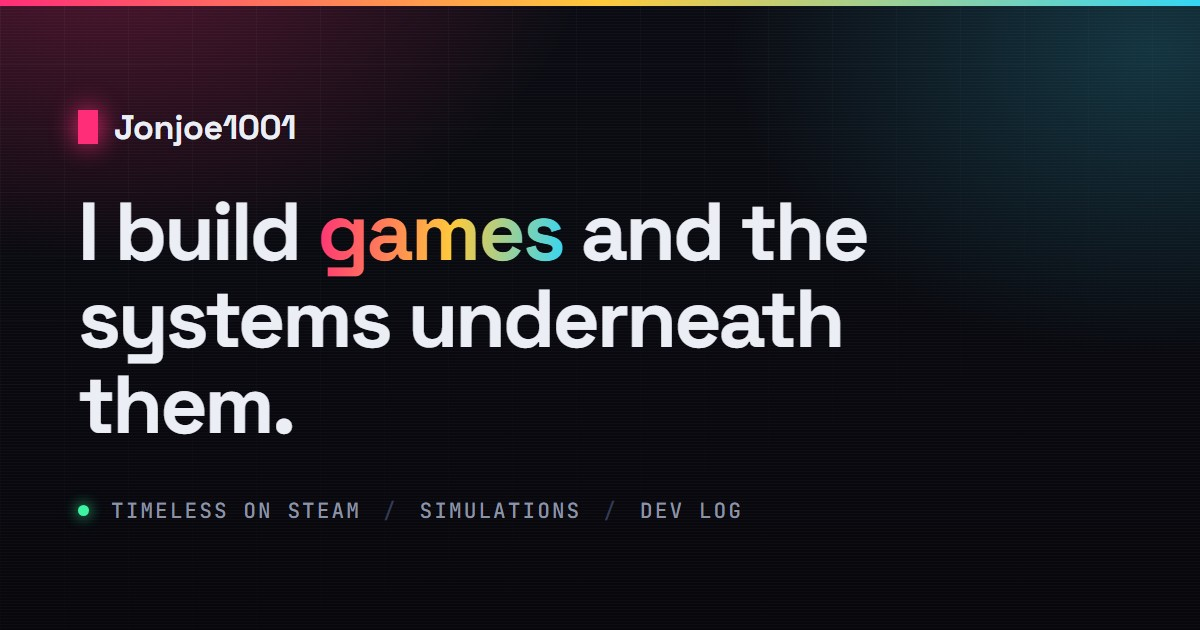
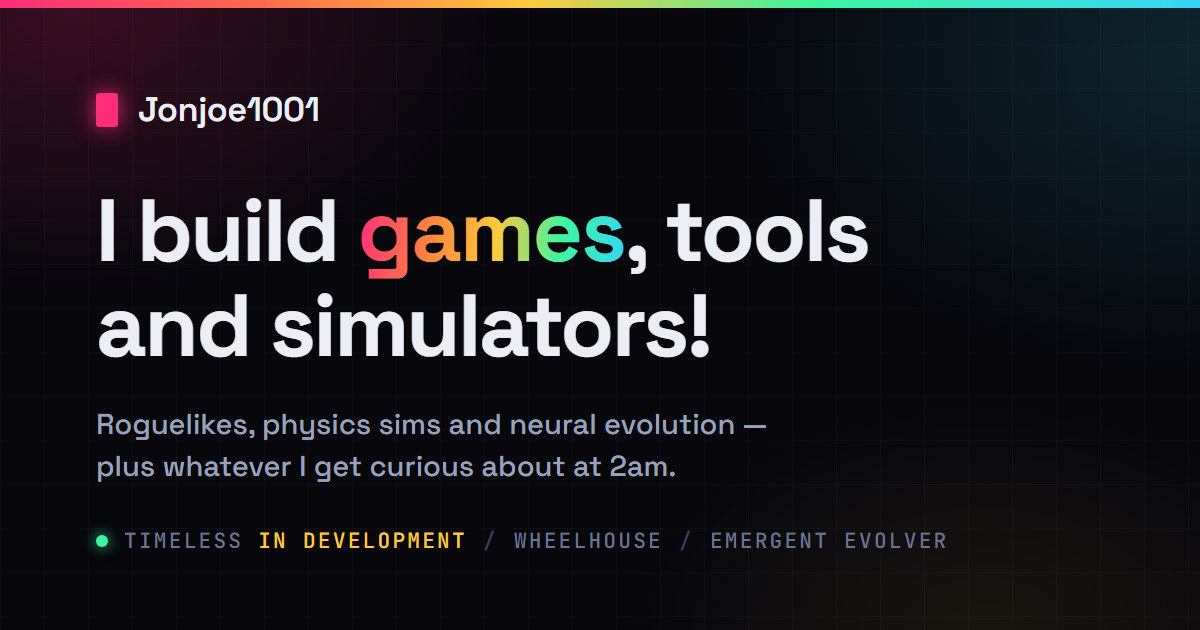
Redraw the social preview card
The old card advertised "TIMELESS ON STEAM" and a headline the site no
longer uses. Timeless is not released, so the card was promising a store
page that does not exist.

- Headline now matches the live hero: "I build games, tools and
  simulators!", with the accent sweep on "games" as on the site.
- Footer strip reads Timeless IN DEVELOPMENT / Wheelhouse / Emergent
  Evolver, so all three current projects are named and the status is
  honest.
- Built from the site's own colour tokens and fonts, so the card cannot
  drift away from the design.

Points at a new filename, og-v2.jpg, because scrapers cache a card
against its URL for days - replacing the picture in place would have
left the old one showing. og.jpg keeps the same new picture so anything
already cached against it refreshes rather than breaking.

Source kept at tools/og-card.html with rebuild instructions.

diff --git a/tools/og-card.html b/tools/og-card.html
@@ -1,0 +1,195 @@
+<!DOCTYPE html>
+<!--
+  Source for the social preview card (assets/img/og-v2.jpg) - the picture that
+  shows when the site is pasted into Discord, Twitter, Slack or iMessage.
+
+  This is not part of the site. Nothing links to it. It exists so the card can
+  be rebuilt instead of redrawn by hand.
+
+  TO REBUILD, after editing the text below:
+
+    1. Screenshot it at exactly 1200x630 (the size every scraper expects):
+
+       & "C:\Program Files (x86)\Microsoft\Edge\Application\msedge.exe" `
+         --headless=new --disable-gpu --hide-scrollbars `
+         --force-device-scale-factor=1 --window-size=1200,630 `
+         --virtual-time-budget=8000 --user-data-dir="$env:TEMP\ogshot" `
+         --screenshot="$env:TEMP\og.png" `
+         "file:///C:/path/to/this/repo/tools/og-card.html"
+
+       If it silently writes no file, delete the --user-data-dir folder first;
+       a stale profile lock makes headless Edge exit without a word.
+
+    2. Convert to JPG and overwrite BOTH names in assets/img/:
+
+       python -c "from PIL import Image; im=Image.open(r'%TEMP%\og.png').convert('RGB'); im.save(r'assets\img\og-v2.jpg','JPEG',quality=88,subsampling=0,optimize=True,progressive=True)"
+
+       og-v2.jpg is the one the pages point at. og.jpg is the old filename,
+       kept holding the same picture so links cached against it stay current.
+
+  WHY JPG when the rest of the site is WebP: link scrapers handle WebP badly.
+  This one file stays JPG on purpose.
+
+  WHY the version number in the filename: Discord and Twitter cache a card
+  against its URL, sometimes for days. Changing the picture at the same URL
+  often changes nothing. Bumping to og-v3.jpg forces every scraper to refetch.
+-->
+<html lang="en">
+<head>
+<meta charset="utf-8">
+<link rel="preconnect" href="https://fonts.googleapis.com">
+<link rel="preconnect" href="https://fonts.gstatic.com" crossorigin>
+<link href="https://fonts.googleapis.com/css2?family=Space+Grotesk:wght@500;600;700&family=JetBrains+Mono:wght@500&display=swap" rel="stylesheet">
+<style>
+  /* Same tokens as the live site, so the card cannot drift from it. */
+  :root {
+    --bg:        #07070C;
+    --text:      #ECEEF6;
+    --text-faint:#6B7392;
+    --hot:       #FF2D78;
+    --cyan:      #35D6F5;
+    --amber:     #FFC93C;
+    --green:     #3DF5A0;
+  }
+
+  * { box-sizing: border-box; margin: 0; padding: 0; }
+
+  html, body { width: 1200px; height: 630px; }
+
+  body {
+    background: var(--bg);
+    color: var(--text);
+    font-family: "Space Grotesk", "Segoe UI", system-ui, sans-serif;
+    position: relative;
+    overflow: hidden;
+  }
+
+  /* The site's backdrop: faint grid plus two corner glows. */
+  .backdrop {
+    position: absolute;
+    inset: 0;
+    background-image:
+      linear-gradient(rgba(255,255,255,.022) 1px, transparent 1px),
+      linear-gradient(90deg, rgba(255,255,255,.022) 1px, transparent 1px);
+    background-size: 44px 44px;
+  }
+  .glow {
+    position: absolute;
+    inset: 0;
+    background:
+      radial-gradient(620px 420px at 6% 0%,   rgba(255, 45,120,.20), transparent 70%),
+      radial-gradient(680px 460px at 100% 8%, rgba( 53,214,245,.14), transparent 70%),
+      radial-gradient(520px 340px at 82% 100%,rgba(255,201, 60,.07), transparent 70%);
+  }
+
+  /* Top rule, the same sweep the site uses above feature cards. */
+  .bar {
+    position: absolute;
+    top: 0; left: 0; right: 0;
+    height: 8px;
+    background: linear-gradient(90deg,
+      var(--hot) 0%, #FF6B4A 22%, var(--amber) 44%, var(--green) 68%, var(--cyan) 100%);
+  }
+
+  .inner {
+    position: relative;
+    height: 100%;
+    padding: 88px 96px 76px;
+    display: flex;
+    flex-direction: column;
+  }
+
+  /* --- brand ------------------------------------------------ */
+  .brand {
+    display: flex;
+    align-items: center;
+    gap: 20px;
+    font-size: 34px;
+    font-weight: 600;
+    letter-spacing: -.01em;
+  }
+  .mark {
+    width: 22px;
+    height: 34px;
+    border-radius: 3px;
+    background: var(--hot);
+    box-shadow: 0 0 22px rgba(255,45,120,.85);
+  }
+
+  /* --- headline --------------------------------------------- */
+  h1 {
+    margin-top: 52px;
+    font-size: 88px;
+    font-weight: 700;
+    line-height: 1.08;
+    letter-spacing: -.028em;
+    max-width: 15ch;
+  }
+  /* "games" picks up the full accent sweep, as on the site's hero. */
+  .accent {
+    background: linear-gradient(95deg,
+      var(--hot) 0%, #FF8A3D 30%, var(--amber) 52%, var(--green) 76%, var(--cyan) 100%);
+    -webkit-background-clip: text;
+    background-clip: text;
+    color: transparent;
+  }
+
+  /* --- lead ------------------------------------------------- */
+  .lead {
+    margin-top: 30px;
+    font-size: 29px;
+    line-height: 1.45;
+    font-weight: 500;
+    color: #9AA1BC;
+    max-width: 37ch;
+  }
+
+  /* --- footer strip ----------------------------------------- */
+  .strip {
+    margin-top: auto;
+    display: flex;
+    align-items: center;
+    gap: 16px;
+    font-family: "JetBrains Mono", Consolas, monospace;
+    font-size: 21px;
+    font-weight: 500;
+    letter-spacing: .11em;
+    color: var(--text-faint);
+    text-transform: uppercase;
+    white-space: nowrap;
+  }
+  .dot {
+    width: 12px;
+    height: 12px;
+    border-radius: 50%;
+    background: var(--green);
+    box-shadow: 0 0 14px rgba(61,245,160,.9);
+    flex: none;
+  }
+  .sep { color: #3A4060; }
+  .live { color: var(--amber); }
+</style>
+</head>
+<body>
+  <div class="backdrop"></div>
+  <div class="glow"></div>
+  <div class="bar"></div>
+
+  <div class="inner">
+    <div class="brand"><span class="mark"></span>Jonjoe1001</div>
+
+    <h1>I build <span class="accent">games</span>, tools and simulators!</h1>
+
+    <p class="lead">Roguelikes, physics sims and neural evolution &mdash; plus whatever I get curious about at 2am.</p>
+
+    <div class="strip">
+      <span class="dot"></span>
+      <span>Timeless <span class="live">in development</span></span>
+      <span class="sep">/</span>
+      <span>Wheelhouse</span>
+      <span class="sep">/</span>
+      <span>Emergent Evolver</span>
+    </div>
+  </div>
+</body>
+</html>

diff --git a/posts/2026-09-09-hello-world.html b/posts/2026-09-09-hello-world.html
@@ -12,11 +12,11 @@
   <meta property="og:type" content="article">
   <meta property="og:url" content="https://jonathancomergit-ai.github.io/posts/2026-09-09-hello-world.html">
   <meta property="og:site_name" content="Jonjoe1001">
-  <meta property="og:image" content="https://jonathancomergit-ai.github.io/assets/img/og.jpg">
+  <meta property="og:image" content="https://jonathancomergit-ai.github.io/assets/img/og-v2.jpg">
   <meta property="og:image:width" content="1200">
   <meta property="og:image:height" content="630">
   <meta name="twitter:card" content="summary_large_image">
-  <meta name="twitter:image" content="https://jonathancomergit-ai.github.io/assets/img/og.jpg">
+  <meta name="twitter:image" content="https://jonathancomergit-ai.github.io/assets/img/og-v2.jpg">
 
 
   <link rel="icon" href="../assets/img/favicon.svg" type="image/svg+xml">

diff --git a/projects/emergent-evolver.html b/projects/emergent-evolver.html
@@ -12,11 +12,11 @@
   <meta property="og:type" content="website">
   <meta property="og:url" content="https://jonathancomergit-ai.github.io/projects/emergent-evolver.html">
   <meta property="og:site_name" content="Jonjoe1001">
-  <meta property="og:image" content="https://jonathancomergit-ai.github.io/assets/img/og.jpg">
+  <meta property="og:image" content="https://jonathancomergit-ai.github.io/assets/img/og-v2.jpg">
   <meta property="og:image:width" content="1200">
   <meta property="og:image:height" content="630">
   <meta name="twitter:card" content="summary_large_image">
-  <meta name="twitter:image" content="https://jonathancomergit-ai.github.io/assets/img/og.jpg">
+  <meta name="twitter:image" content="https://jonathancomergit-ai.github.io/assets/img/og-v2.jpg">
 
   <link rel="icon" href="../assets/img/favicon.svg" type="image/svg+xml">
 

diff --git a/projects/wheelhouse.html b/projects/wheelhouse.html
@@ -12,11 +12,11 @@
   <meta property="og:type" content="website">
   <meta property="og:url" content="https://jonathancomergit-ai.github.io/projects/wheelhouse.html">
   <meta property="og:site_name" content="Jonjoe1001">
-  <meta property="og:image" content="https://jonathancomergit-ai.github.io/assets/img/og.jpg">
+  <meta property="og:image" content="https://jonathancomergit-ai.github.io/assets/img/og-v2.jpg">
   <meta property="og:image:width" content="1200">
   <meta property="og:image:height" content="630">
   <meta name="twitter:card" content="summary_large_image">
-  <meta name="twitter:image" content="https://jonathancomergit-ai.github.io/assets/img/og.jpg">
+  <meta name="twitter:image" content="https://jonathancomergit-ai.github.io/assets/img/og-v2.jpg">
 
   <link rel="icon" href="../assets/img/favicon.svg" type="image/svg+xml">
 

diff --git a/projects/timeless.html b/projects/timeless.html
@@ -12,11 +12,11 @@
   <meta property="og:type" content="website">
   <meta property="og:url" content="https://jonathancomergit-ai.github.io/projects/timeless.html">
   <meta property="og:site_name" content="Jonjoe1001">
-  <meta property="og:image" content="https://jonathancomergit-ai.github.io/assets/img/og.jpg">
+  <meta property="og:image" content="https://jonathancomergit-ai.github.io/assets/img/og-v2.jpg">
   <meta property="og:image:width" content="1200">
   <meta property="og:image:height" content="630">
   <meta name="twitter:card" content="summary_large_image">
-  <meta name="twitter:image" content="https://jonathancomergit-ai.github.io/assets/img/og.jpg">
+  <meta name="twitter:image" content="https://jonathancomergit-ai.github.io/assets/img/og-v2.jpg">
 
   <link rel="icon" href="../assets/img/favicon.svg" type="image/svg+xml">
 

diff --git a/posts/_TEMPLATE.html b/posts/_TEMPLATE.html
@@ -29,11 +29,11 @@
   <meta property="og:type" content="article">
   <meta property="og:url" content="https://jonathancomergit-ai.github.io/posts/_TEMPLATE.html">
   <meta property="og:site_name" content="Jonjoe1001">
-  <meta property="og:image" content="https://jonathancomergit-ai.github.io/assets/img/og.jpg">
+  <meta property="og:image" content="https://jonathancomergit-ai.github.io/assets/img/og-v2.jpg">
   <meta property="og:image:width" content="1200">
   <meta property="og:image:height" content="630">
   <meta name="twitter:card" content="summary_large_image">
-  <meta name="twitter:image" content="https://jonathancomergit-ai.github.io/assets/img/og.jpg">
+  <meta name="twitter:image" content="https://jonathancomergit-ai.github.io/assets/img/og-v2.jpg">
 
 
   <link rel="icon" href="../assets/img/favicon.svg" type="image/svg+xml">

diff --git a/projects.html b/projects.html
@@ -11,11 +11,11 @@
   <meta property="og:type" content="website">
   <meta property="og:url" content="https://jonathancomergit-ai.github.io/projects.html">
   <meta property="og:site_name" content="Jonjoe1001">
-  <meta property="og:image" content="https://jonathancomergit-ai.github.io/assets/img/og.jpg">
+  <meta property="og:image" content="https://jonathancomergit-ai.github.io/assets/img/og-v2.jpg">
   <meta property="og:image:width" content="1200">
   <meta property="og:image:height" content="630">
   <meta name="twitter:card" content="summary_large_image">
-  <meta name="twitter:image" content="https://jonathancomergit-ai.github.io/assets/img/og.jpg">
+  <meta name="twitter:image" content="https://jonathancomergit-ai.github.io/assets/img/og-v2.jpg">
 
 
   <link rel="icon" href="assets/img/favicon.svg" type="image/svg+xml">

diff --git a/contact.html b/contact.html
@@ -11,11 +11,11 @@
   <meta property="og:type" content="website">
   <meta property="og:url" content="https://jonathancomergit-ai.github.io/contact.html">
   <meta property="og:site_name" content="Jonjoe1001">
-  <meta property="og:image" content="https://jonathancomergit-ai.github.io/assets/img/og.jpg">
+  <meta property="og:image" content="https://jonathancomergit-ai.github.io/assets/img/og-v2.jpg">
   <meta property="og:image:width" content="1200">
   <meta property="og:image:height" content="630">
   <meta name="twitter:card" content="summary_large_image">
-  <meta name="twitter:image" content="https://jonathancomergit-ai.github.io/assets/img/og.jpg">
+  <meta name="twitter:image" content="https://jonathancomergit-ai.github.io/assets/img/og-v2.jpg">
 
 
   <link rel="icon" href="assets/img/favicon.svg" type="image/svg+xml">

diff --git a/about.html b/about.html
@@ -11,11 +11,11 @@
   <meta property="og:type" content="website">
   <meta property="og:url" content="https://jonathancomergit-ai.github.io/about.html">
   <meta property="og:site_name" content="Jonjoe1001">
-  <meta property="og:image" content="https://jonathancomergit-ai.github.io/assets/img/og.jpg">
+  <meta property="og:image" content="https://jonathancomergit-ai.github.io/assets/img/og-v2.jpg">
   <meta property="og:image:width" content="1200">
   <meta property="og:image:height" content="630">
   <meta name="twitter:card" content="summary_large_image">
-  <meta name="twitter:image" content="https://jonathancomergit-ai.github.io/assets/img/og.jpg">
+  <meta name="twitter:image" content="https://jonathancomergit-ai.github.io/assets/img/og-v2.jpg">
 
 
   <link rel="icon" href="assets/img/favicon.svg" type="image/svg+xml">

diff --git a/blog.html b/blog.html
@@ -11,11 +11,11 @@
   <meta property="og:type" content="website">
   <meta property="og:url" content="https://jonathancomergit-ai.github.io/blog.html">
   <meta property="og:site_name" content="Jonjoe1001">
-  <meta property="og:image" content="https://jonathancomergit-ai.github.io/assets/img/og.jpg">
+  <meta property="og:image" content="https://jonathancomergit-ai.github.io/assets/img/og-v2.jpg">
   <meta property="og:image:width" content="1200">
   <meta property="og:image:height" content="630">
   <meta name="twitter:card" content="summary_large_image">
-  <meta name="twitter:image" content="https://jonathancomergit-ai.github.io/assets/img/og.jpg">
+  <meta name="twitter:image" content="https://jonathancomergit-ai.github.io/assets/img/og-v2.jpg">
 
 
   <link rel="icon" href="assets/img/favicon.svg" type="image/svg+xml">

diff --git a/index.html b/index.html
@@ -13,11 +13,11 @@
   <meta property="og:type" content="website">
   <meta property="og:url" content="https://jonathancomergit-ai.github.io/">
   <meta property="og:site_name" content="Jonjoe1001">
-  <meta property="og:image" content="https://jonathancomergit-ai.github.io/assets/img/og.jpg">
+  <meta property="og:image" content="https://jonathancomergit-ai.github.io/assets/img/og-v2.jpg">
   <meta property="og:image:width" content="1200">
   <meta property="og:image:height" content="630">
   <meta name="twitter:card" content="summary_large_image">
-  <meta name="twitter:image" content="https://jonathancomergit-ai.github.io/assets/img/og.jpg">
+  <meta name="twitter:image" content="https://jonathancomergit-ai.github.io/assets/img/og-v2.jpg">
 
   <link rel="icon" href="assets/img/favicon.svg" type="image/svg+xml">
 
